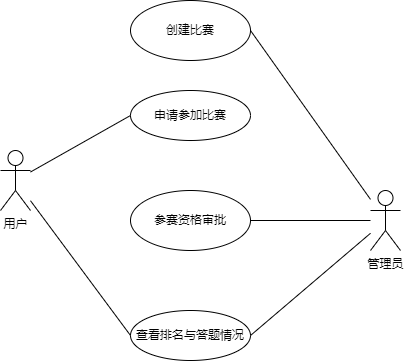
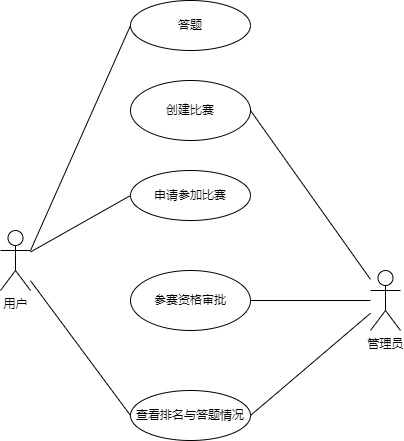
split 'Problem Answer Function' into two parts and delete this section

diff --git a/Requirement_official.md b/Requirement_official.md
@@ -297,9 +297,14 @@ note left of tk: 比赛创建及参与功能
     <center>	<!--将图片和文字居中-->
     <img src="img\4.3.1.png" alt="4.3.1" style="zoom:60%;"/>
     <br>		<!--换行-->
-    图 4.3.1 自主组卷练习流程图	<!--标题-->
-    </cente r>
+    图 4.3.1.1 自主组卷练习流程图	<!--标题-->
+    <br>
+    <img src="img\4.3.1.2.png" alt="4.3.1.2" style="zoom:60%;"/>
+    <br>		<!--换行-->
+    图 4.3.1.2 自主组卷答题子功能流程图	<!--标题-->
+    </center>
 </div>
+
 
 
 #### 4.3.2 用例图
@@ -317,16 +322,21 @@ note left of tk: 比赛创建及参与功能
 
 ##### 4.3.3.1 业务定义/功能描述
 
-本模块为用户自主组卷模块，用来自主组卷练习，然后转入答题功能，主要包含以下几个业务：
+本模块为用户自主组卷模块，用来自主组卷练习，并转入答题功能，主要包含以下几个业务：
 
 **1） 选择题库随机组卷功能：**
 由用户选择标签与数量，后由系统随机抽题组卷。
+
+**2） 用户答题功能：**
+
+由用户答题，并由服务器判题并返回结果。
 
 ##### 4.3.3.2 使用角色描述
 
 | 使用者 | 使用功能         |
 | ------ | ---------------- |
 | 用户   | 系统自动抽题组卷 |
+| 用户   | 答题             |
 
 ##### 4.3.3.3 业务操作流程
 
@@ -337,12 +347,14 @@ note left of tk: 比赛创建及参与功能
 | 功能子模块   | 数据名称   | 格式                               |
 | ------------ | ---------- | ---------------------------------- |
 | 用户选择模块 | 标签，数量 | 图形化界面选择后转为内部形式化数据 |
+| 答题模块   | 用户的选择 | 图形化界面选择后转为内部形式化数据 |
 
 ##### 4.3.3.5 输出
 
 | 功能子模块   | 输出内容                   |
 | ------------ | -------------------------- |
 | 用户选择模块 | 组卷成功开始答题，组卷失败 |
+| 答题模块   | 正确，错误，未作答 |
 
 ### 4.4 比赛功能
 
@@ -357,14 +369,18 @@ note left of tk: 比赛创建及参与功能
 </div>
 
 
-
 <div>			<!--块级封装-->
     <center>	<!--将图片和文字居中-->
     <img src="img\4.4.1.2.png" alt="4.4.1.2" style="zoom:60%;"/>
     <br>		<!--换行-->
     图 4.4.1.2 管理员比赛流程图	<!--标题-->
-    </cente r>
+    <br>
+    <img src="img\4.4.1.3.png" alt="4.4.1.3" style="zoom:60%;"/>
+    <br>		<!--换行-->
+    图 4.4.1.2 用户答题流程图	<!--标题-->
+    </center>
 </div>
+
 
 
 
@@ -401,6 +417,10 @@ note left of tk: 比赛创建及参与功能
 
 比赛结束后，管理员可以查看比赛的排名和用户答题情况，错误分布等，用户自己可以查看比赛的排名与自己的答题情况
 
+**5） 限时答题功能：**
+
+限定时间内让用户答题。
+
 ##### 4.4.3.2 使用角色描述
 
 | 使用者       | 使用功能           |
@@ -409,11 +429,12 @@ note left of tk: 比赛创建及参与功能
 | 管理员       | 创建比赛           |
 | 管理员       | 参赛审批           |
 | 管理员，用户 | 查看排名与答题情况 |
+| 用户   | 答题 |
 
 
 ##### 4.4.3.3 业务操作流程
 
-正常业务如图4.4.1.1与4.1.1.2所示
+正常业务如图4.4.1.1 ， 4.1.1.2 ， 4.1.1.3所示
 
 ##### 4.4.3.4 输入
 
@@ -422,6 +443,7 @@ note left of tk: 比赛创建及参与功能
 | 设定比赛时间模块     | 开始时间、答题时间 | 图形化界面选择后转为整性数据 |
 | 设定比赛私密属性模块 | 是否为私密比赛     | 图形化界面选择后转为布尔型   |
 | 比赛申请模块         | 参赛密码（可选）   | 字符串                       |
+| 答题模块   | 用户的选择 | 图形化界面选择后转为内部形式化数据 |
 
 ##### 4.4.3.5 输出
 
@@ -429,64 +451,8 @@ note left of tk: 比赛创建及参与功能
 | ---------- | ------------------ |
 | 创建比赛模块  | 创建成功，创建失败 |
 | 比赛申请模块            | 申请成功，申请失败              |
+| 答题模块   | 提交成功 |
 
-### 4.5 答题功能
-
-#### 4.5.1 业务流程
-
-<div>			<!--块级封装-->
-    <center>	<!--将图片和文字居中-->
-    <img src="img\4.5.1.png" alt="4.5.1" style="zoom:60%;"/>
-    <br>		<!--换行-->
-    图 4.5.1 答题流程图	<!--标题-->
-    </center>
-</div>
-
-
-
-#### 4.5.2 用例图
-
-<div>			<!--块级封装-->
-    <center>	<!--将图片和文字居中-->
-    <img src="img\4.5.2.png" alt="4.5.2" style="zoom:60%;" />
-    <br>		<!--换行-->
-    图 4.5.2 答题用例图	<!--标题-->
-    </center>
-</div>
-
-
-
-
-#### 4.5.3 功能点
-
-##### 4.5.3.1 业务定义/功能描述
-
-本模块为用户答题模块，入口为自组卷或比赛功能，由用户答题提交服务器检查，主要包含以下几个业务：
-
-**1） 答题功能：**
-由用户答题，并由服务器判题，若为限定时间题目，则在时间到达后自动结束作答。
-
-##### 4.5.3.2 使用角色描述
-
-| 使用者 | 使用功能 |
-| ------ | -------- |
-| 用户   | 答题     |
-
-##### 4.5.3.3 业务操作流程
-
-正常业务如图4.5.1所示
-
-##### 4.5.3.4 输入
-
-| 功能子模块 | 数据名称   | 格式                               |
-| ---------- | ---------- | ---------------------------------- |
-| 答题模块   | 用户的选择 | 图形化界面选择后转为内部形式化数据 |
-
-##### 4.5.3.5 输出
-
-| 功能子模块 | 输出内容                                                     |
-| ---------- | ------------------------------------------------------------ |
-| 答题模块   | 正确，错误，未作答（即时反馈情况）；无返回（非即时反馈比赛） |
 
 ## 5 非功能性需求
 
